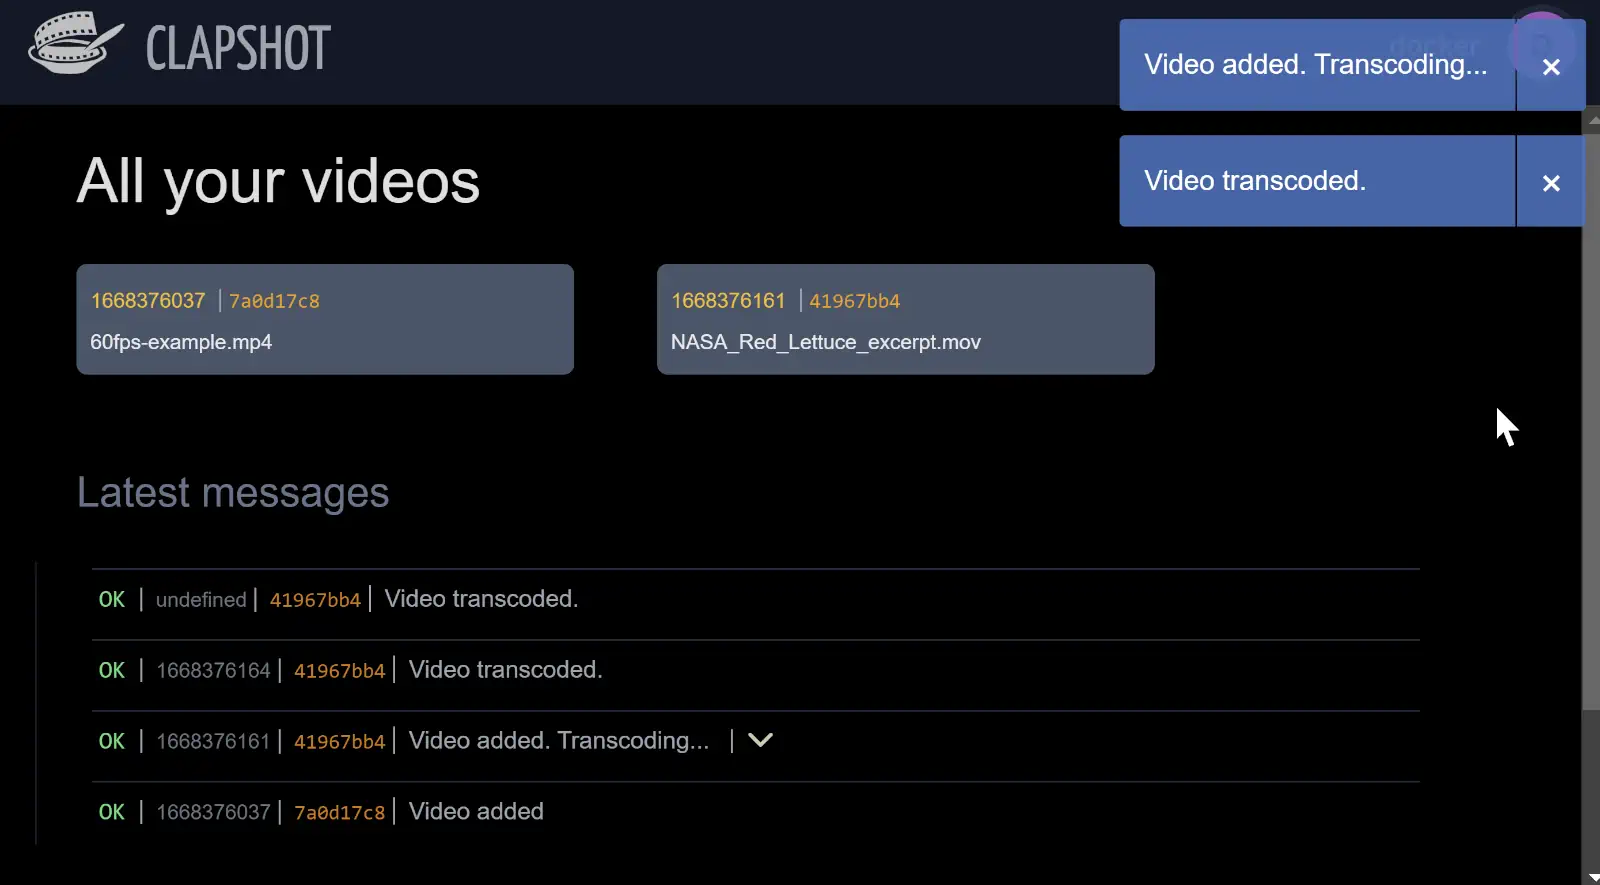
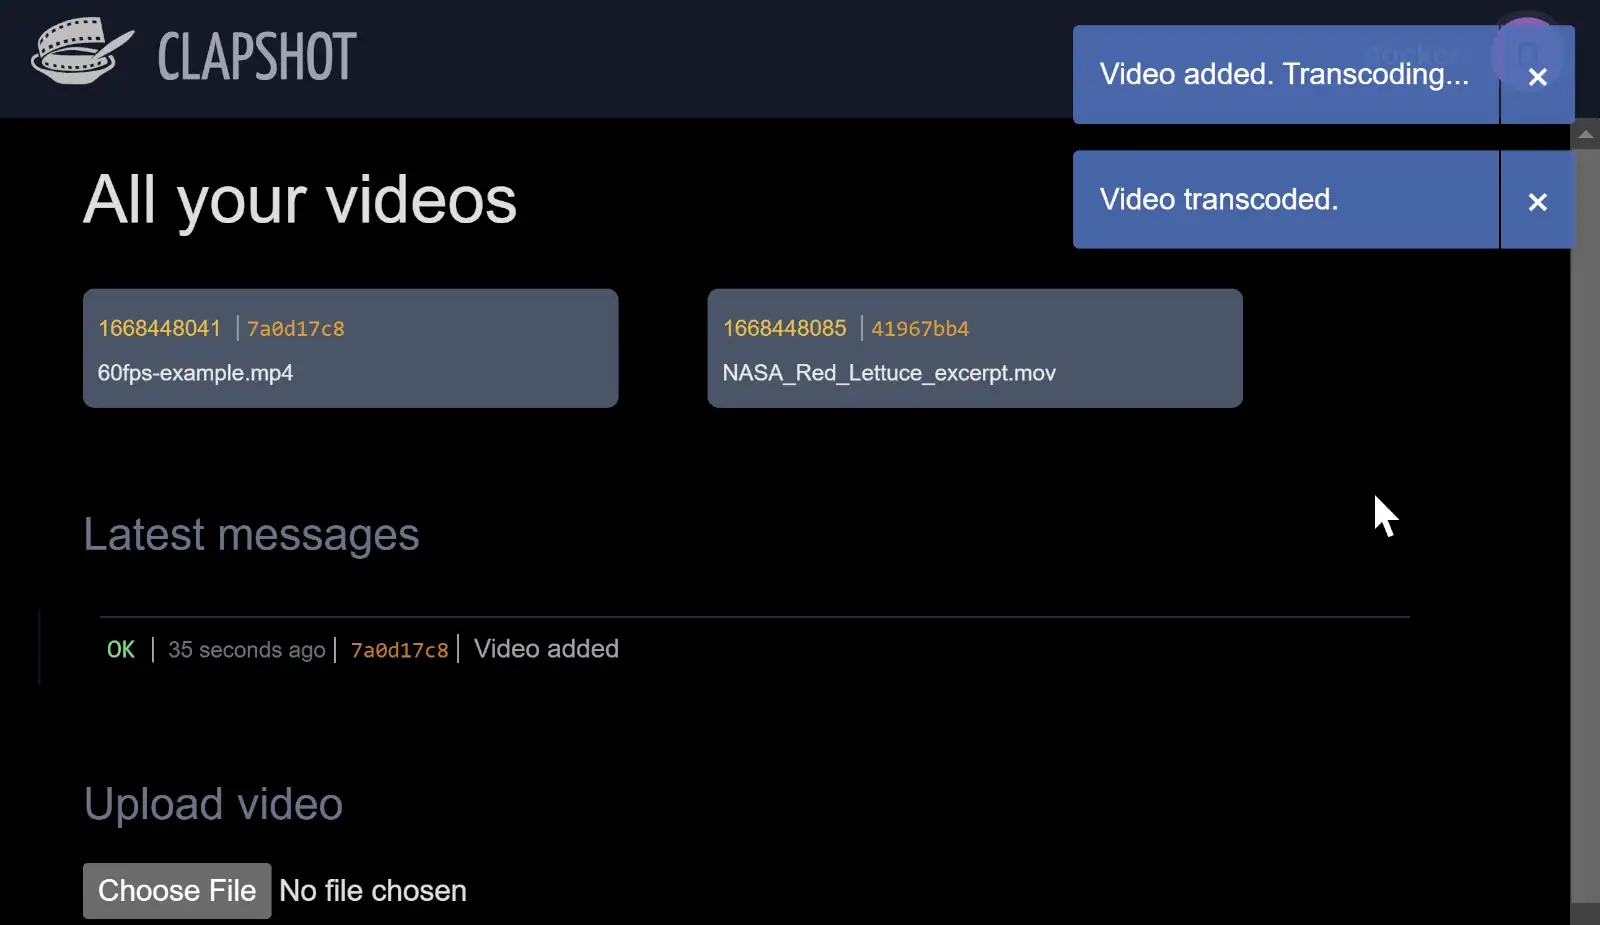
Humanize time string in notifications. Hyphenate comments.

diff --git a/client/src/lib/CommentCard.svelte b/client/src/lib/CommentCard.svelte
@@ -71,10 +71,10 @@ function onEditFieldKeyUp(e) {
   <div class="flex mx-2 pt-3">
     <div class="flex-none w-9 h-9 block"><Avatar userFullName="{username}" src="{avatar_url}" /></div>
     <h5 class="flex-1 ml-3 text-gray-500 self-end">{username}</h5>
-    <span class="invisible text-xs font-mono">[{id}@{parent_id}]</span>
+    <span class="flex-none hidden text-xs font-mono">[{id}@{parent_id}]</span>
     <span
       on:click="{() => { onTimecodeClick(timecode) }}"
-      class="pl-2 flex-0 text-xs italic text-yellow-700 hover:text-yellow-500 hover:underline cursor-pointer self-end">
+      class="pl-2 flex-0 text-xs italic whitespace-nowrap text-yellow-700 hover:text-yellow-500 hover:underline cursor-pointer self-end">
         {#if drawing_data && drawing_data != ""}
           <i class="fas fa-pen"></i>
         {/if}
@@ -82,11 +82,11 @@ function onEditFieldKeyUp(e) {
     </span>
   </div>
 
-  <div class="p-2">
+  <div class="p-2" lang="en">
     {#if editing}
       <input class="w-full outline-dashed bg-slate-500" type="text" use:callFocus bind:value="{comment}" on:keyup={onEditFieldKeyUp} on:blur="{(e)=>{editing=false;}}" />
     {:else}
-      <p class="text-gray-300 text-base break-all">
+      <p class="text-gray-300 text-base hyphenate">
         {comment}
         {#if edited}
           <span class="text-xs italic text-gray-500"> (edited)</span>
@@ -117,3 +117,14 @@ function onEditFieldKeyUp(e) {
   {/if}
 
 </div>
+
+
+<style>
+  .hyphenate {
+    -webkit-hyphens: auto;
+    -moz-hyphens: auto;
+    -ms-hyphens: auto;
+    hyphens: auto;
+    word-break: break-word;
+  }
+</style>

diff --git a/client/src/lib/UserMessage.svelte b/client/src/lib/UserMessage.svelte
@@ -12,15 +12,17 @@ let show_details: boolean = false;
     </span>
     <span class="text-xs text-gray-500 pl-2 border-l border-gray-400">{msg.created}</span>
 
-    {#if msg.event_name == "error"}
-        <span class="font-mono text-xs pl-2 border-l border-gray-400 line-through text-gray-700">
-            {msg.ref_video_hash}
-        </span>
-    {:else}
-        <a class="font-mono text-xs pl-2 border-l border-gray-400 text-amber-600"
-            href="/?vid={msg.ref_video_hash}">
-            {msg.ref_video_hash}
-        </a>
+    {#if msg.ref_video_hash }
+        {#if msg.event_name == "error"}
+            <span class="font-mono text-xs pl-2 border-l border-gray-400 line-through text-gray-700">
+                {msg.ref_video_hash}
+            </span>
+        {:else}
+            <a class="font-mono text-xs pl-2 border-l border-gray-400 text-amber-600"
+                href="/?vid={msg.ref_video_hash}">
+                {msg.ref_video_hash}
+            </a>
+        {/if}
     {/if}
 
     <span class="text-gray-400 text-sm pl-2 border-l border-gray-400 pr-2">{msg.message}</span>

diff --git a/client/src/App.svelte b/client/src/App.svelte
@@ -310,7 +310,7 @@
             }
             else {
               $user_messages = $user_messages.filter((m) => m.id != data.id);
-              $user_messages.push(data);
+              if (data.created) { $user_messages.push(data); }
               $user_messages = $user_messages.sort((a, b) => a.id > b.id ? -1 : a.id < b.id ? 1 : 0);
               if (!data.seen) {
                 const severity = (data.event_name == 'error') ? 'danger' : 'info';

diff --git a/server/src/database/models.rs b/server/src/database/models.rs
@@ -3,6 +3,8 @@ use serde::{Deserialize, Serialize};
 use super::schema::*;
 use chrono;
 use chrono::naive::serde::{ts_seconds, ts_seconds_option};
+use chrono::TimeZone;
+use timeago;
 
 
 #[derive(Serialize, Deserialize, Debug, Queryable, Selectable, Identifiable, QueryId)]
@@ -111,5 +113,15 @@ impl Video { pub fn to_json(&self) -> Result<serde_json::Value, serde_json::Erro
 impl VideoInsert { pub fn to_json(&self) -> Result<serde_json::Value, serde_json::Error> { to_json(&self) } }
 impl Comment { pub fn to_json(&self) -> Result<serde_json::Value, serde_json::Error> { to_json(&self) } }
 impl CommentInsert { pub fn to_json(&self) -> Result<serde_json::Value, serde_json::Error> { to_json(&self) } }
-impl Message { pub fn to_json(&self) -> Result<serde_json::Value, serde_json::Error> { to_json(&self) } }
+
+impl Message { pub fn to_json(&self) -> Result<serde_json::Value, serde_json::Error> {
+    to_json(&self).map(|mut v| {
+        // Turn timestamp into a human-readable timeago string
+        let created_utc: chrono::DateTime<chrono::Utc> = chrono::Utc.from_utc_datetime(&self.created);
+        let time_ago_str = timeago::Formatter::new().convert_chrono(created_utc, chrono::Local::now());
+        v["created"] = serde_json::json!(time_ago_str);
+        v
+    })
+}}
+
 impl MessageInsert { pub fn to_json(&self) -> Result<serde_json::Value, serde_json::Error> { to_json(&self) } }

diff --git a/server/src/api_server/ws_handers.rs b/server/src/api_server/ws_handers.rs
@@ -99,7 +99,7 @@ pub async fn msg_open_video(data: &serde_json::Value, ses: &mut WsSessionArgs<'_
         Err(e) => { bail!(e); }
         Ok(v) => {
             ses.video_session_guard = Some(ses.server.link_session_to_video(video_hash, ses.sender.clone()));
-            let mut fields = serde_json::to_value(&v)?;
+            let mut fields = v.to_json()?;
 
             // Use transcoded or orig video?
             let (file, uri) = match v.recompression_done {
@@ -265,7 +265,7 @@ pub async fn msg_del_comment(data: &serde_json::Value, ses: &mut WsSessionArgs<'
 pub async fn msg_list_my_messages(data: &serde_json::Value, ses: &mut WsSessionArgs<'_>) -> Res<()> {
     let msgs = ses.server.db.get_user_messages(&ses.user_id)?;
     for m in msgs {
-        ses.emit_cmd("message", &serde_json::to_value(&m)?, super::SendTo::CurSession())?;
+        ses.emit_cmd("message", &m.to_json()?, super::SendTo::CurSession())?;
         if !m.seen {
             ses.server.db.set_message_seen(m.id, true)?;
         }
